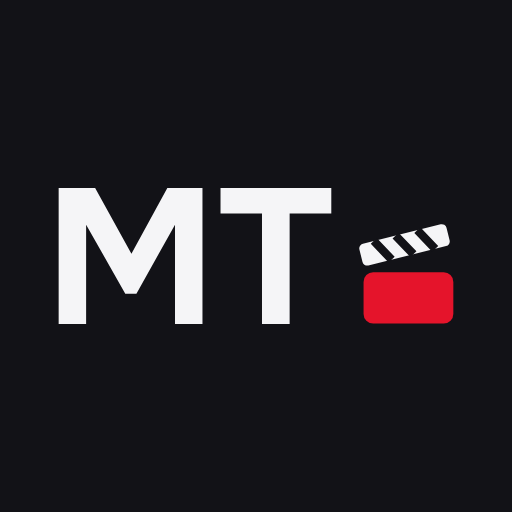
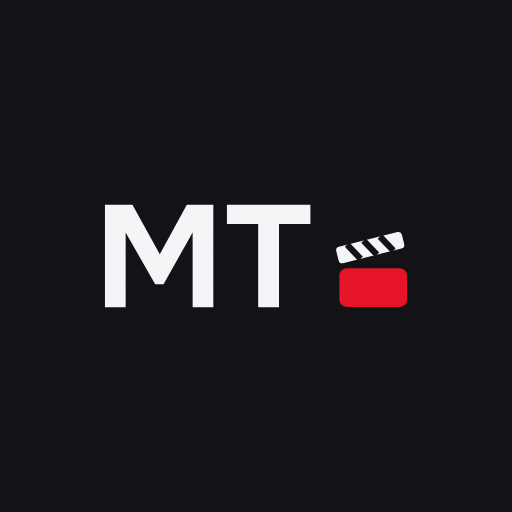
Иконка PWA: больше воздуха

Changed region(s): [[0.0938, 0.3438, 0.6562, 0.6562], [0.6562, 0.4375, 0.9062, 0.6562]]

diff --git a/docs/CHANGELOG.md b/docs/CHANGELOG.md
@@ -10,6 +10,21 @@
 
 <!-- Новые записи добавляются ниже этой строки, каждая сверху -->
 
+## 2026-11-20 (2)
+Иконка PWA: больше воздуха. Группа «MT + хлопушка» уменьшена: `any` и
+apple-icon — 59% стороны (было 77%), `maskable` — 51% (было 74%), favicon —
+≈70%. Зазор от конца «MT» до квадрата хлопушки теперь 19px уже при новом,
+меньшем масштабе — 0.185 высоты букв вместо 0.14; видимый просвет T↔хлопушка
+≈0.25 высоты букв (было ≈0.2). Буквы и хлопушка между собой, цвета и шрифт
+(Onest 700 в кривых) не менялись. Крышка хлопушки ниже верха букв, поэтому
+центр по вертикали — по буквам. Замер по пикселям: от края до группы
+по горизонтали 20.3% (512, 192), 20.0% (apple 180), 24.4% (maskable), 15.6%
+(favicon), по вертикали всё по центру.
+Файлы: public/icon-192.png, public/icon-512.png, public/icon-maskable-512.png,
+app/apple-icon.png, app/favicon.ico, assets/pwa/icon.svg,
+assets/pwa/icon-maskable.svg, assets/pwa/favicon.svg, docs/SPEC.md,
+docs/CHANGELOG.md
+
 ## 2026-11-20
 Этап 7, часть 2: PWA, горячие клавиши, «Перезаполнить из API».
 PWA: `app/manifest.ts` (Movie_Theatre, standalone, `#121217`, ru), иконка
